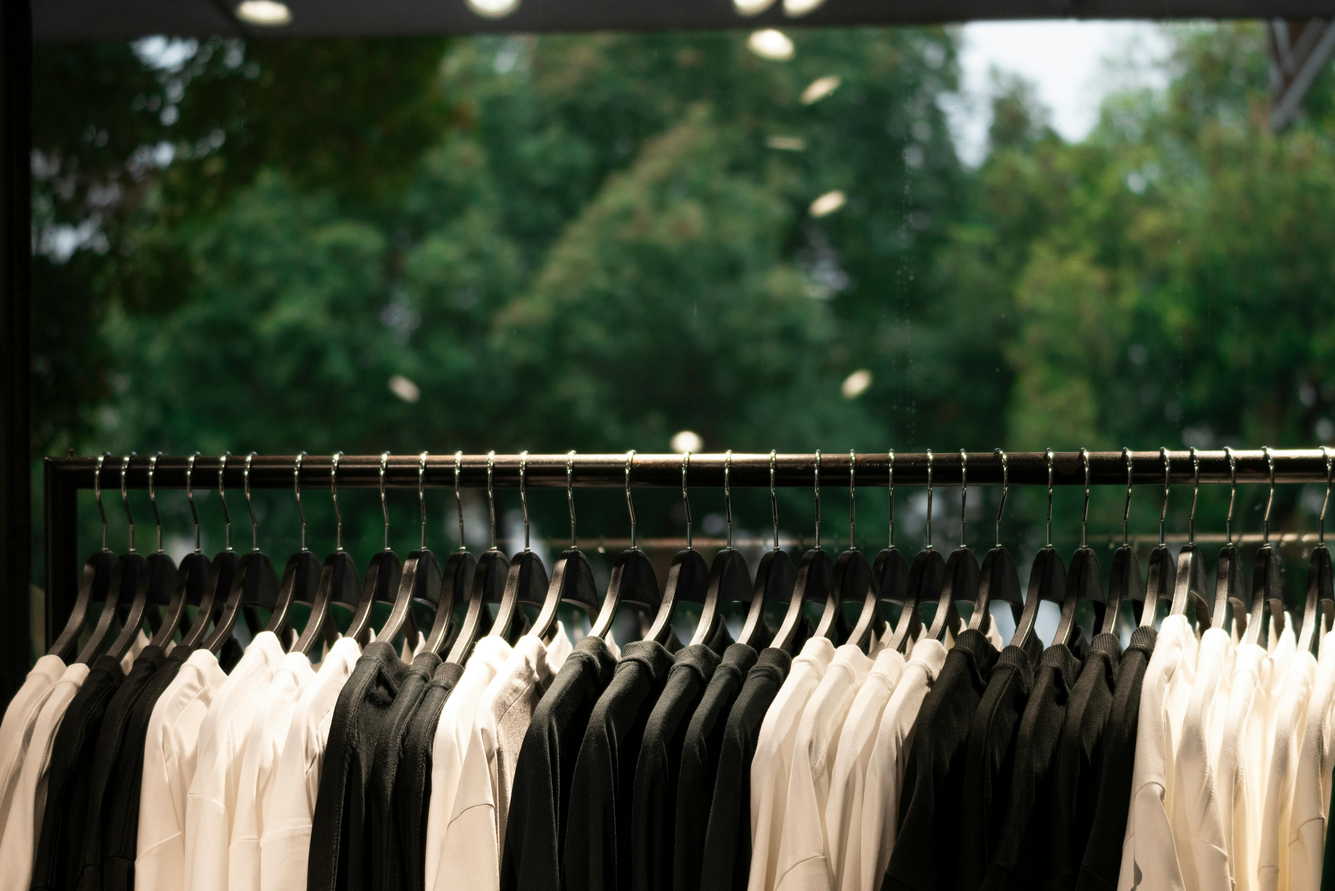
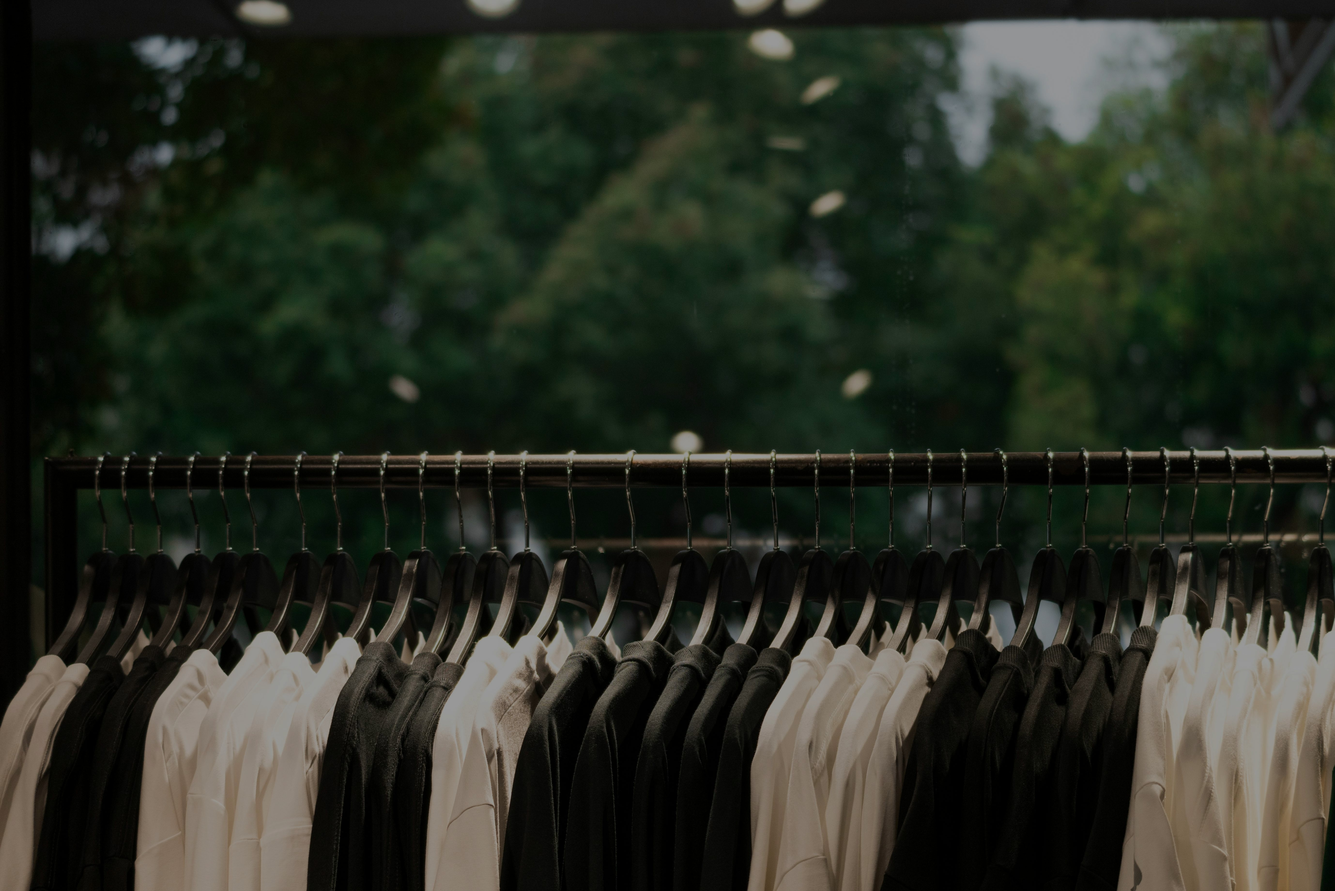
Added the styles and changed the images of the background in the hero section

diff --git a/frontend/src/components/home/Hero.jsx b/frontend/src/components/home/Hero.jsx
@@ -64,13 +64,13 @@ const Hero = () => {
                 </motion.h1>
 
                 <motion.h2
-                  className="text-[40px] sm:text-[55px] md:text-[68px] font-bold uppercase text-background drop-shadow-md mt-4"
+                  className="text-[30px] sm:text-[45px] md:text-[68px] font-bold uppercase text-background drop-shadow-md"
                   initial="hidden"
                   animate="visible"
                   custom={0.5}
                   variants={captionVariants}
                 >
-                  2025 Collection
+                  Suitable for all tastes
                 </motion.h2>
 
                 <motion.div
@@ -80,11 +80,11 @@ const Hero = () => {
                   custom={1}
                   variants={captionVariants}
                 >
-                    <a href="/products"
-                      className="inline-flex items-center gap-3 px-6 py-3 bg-background text-cocoprimary font-semibold rounded-full shadow-lg hover:bg-white/80 transition duration-300">
-                      Shop Now
-                      <i className="fa-solid fa-arrow-right items-center pt-[3px] md:pt-[2px]"></i>
-                    </a>
+                  <a href="/products"
+                    className="inline-flex items-center gap-3 px-6 py-3 bg-background text-cocoprimary font-semibold rounded-full shadow-lg hover:bg-white/70 transition duration-300">
+                    Shop Now
+                    <i className="fa-solid fa-arrow-right items-center pt-[3px] md:pt-0.5"></i>
+                  </a>
                 </motion.div>
               </div>
             )}
@@ -99,7 +99,7 @@ const Hero = () => {
             className="w-full h-full object-cover md:hidden"
           />
           <img
-            src={assets.banner3}
+            src={assets.banner4}
             className="w-full h-full object-cover hidden md:block"
           />
 
@@ -126,7 +126,7 @@ const Hero = () => {
                 </motion.h1>
 
                 <motion.h2
-                  className="text-[40px] sm:text-[55px] md:text-[68px] font-bold uppercase text-cocoprimary md:text-background drop-shadow-md mt-4"
+                  className="text-[30px] sm:text-[45px] md:text-[68px] font-bold uppercase text-background drop-shadow-md"
                   initial="hidden"
                   animate="visible"
                   custom={0.5}
@@ -143,9 +143,9 @@ const Hero = () => {
                   variants={captionVariants}
                 >
                     <a href="/products"
-                      className="inline-flex items-center gap-3 px-6 py-3 bg-background text-cocoprimary font-semibold rounded-full shadow-lg hover:bg-white/80 transition duration-300">
+                      className="inline-flex items-center gap-3 px-6 py-3 bg-background text-cocoprimary font-semibold rounded-full shadow-lg hover:bg-white/70 transition duration-300">
                       Shop Now
-                      <i className="fa-solid fa-arrow-right items-center pt-[3px] md:pt-[2px]"></i>
+                      <i className="fa-solid fa-arrow-right items-center pt-[3px] md:pt-0.5"></i>
                     </a>
                 </motion.div>
               </div>

diff --git a/frontend/src/assets/assets.js b/frontend/src/assets/assets.js
@@ -1,15 +1,11 @@
-import banner1 from "./images/banner1.jpg"
-import banner2 from "./images/banner2.jpg"
 import banner3 from "./images/banner3.jpg"
-import mobileBanner1 from "./images/mobileBanner1.avif"
 import mobileBanner2 from "./images/mobileBanner2.jpg"
 import mobileBanner3 from "./images/mobileBanner4.jpg"
+import banner4 from "./images/banner4.jpg"
 
 export const assets = {
-    banner1,
-    banner2,
     banner3,
-    mobileBanner1,
     mobileBanner2,
-    mobileBanner3
+    mobileBanner3,
+    banner4
 }
